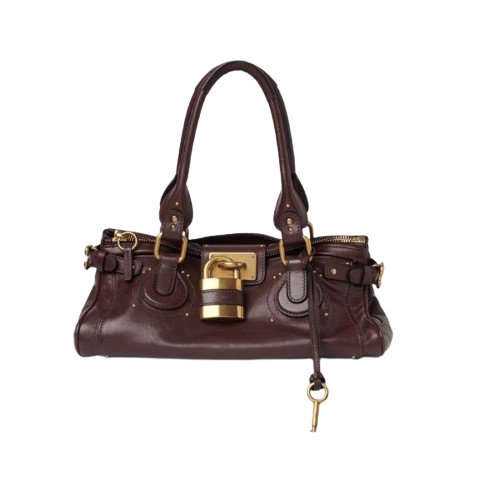
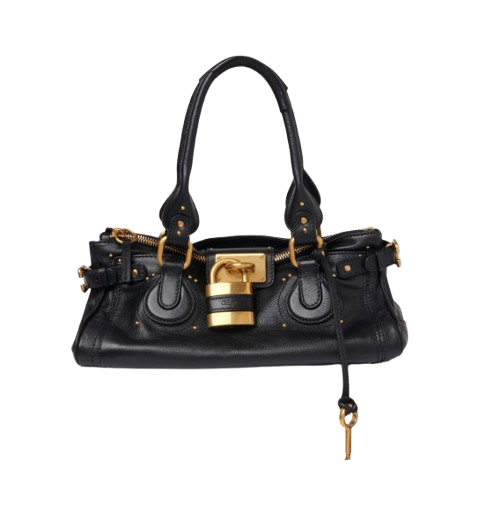
Add new wishlist items and update images

Changed region(s): [[0.1235, 0.0893, 0.8642, 0.8929]]

diff --git a/script.js b/script.js
@@ -19,7 +19,7 @@ const WISHLIST_ITEMS = [
     brand: "Chloé",
     name: "Paddington Shoulder Bag",
     image: "images/chloe_paddington_bag.png",
-    url: "https://www.chloe.com/en-us/p/bags/shoulder-bag/CH25WS802P75602.html",
+    url: "https://www.chloe.com/en-us/p/bags/shoulder-bag/CH25WS802P75001.html",
     category: "bags"
   },
   {
@@ -42,13 +42,6 @@ const WISHLIST_ITEMS = [
     image: "images/diptyque_candle.png",
     url: "https://www.diptyqueparis.com/en_us/p/home-fragrances/scented-candles/colored-scented-candles/roses-candle-600g.html",
     category: "home"
-  },
-  {
-    brand: "Ferragamo",
-    name: "Medium Leather Tote",
-    image: "images/ferragamo_bag.png",
-    url: "https://www.ferragamo.com/shop/us/en/women/handbags/totes-1/tote-m-777338",
-    category: "bags"
   },
   {
     brand: "Slip",
@@ -98,6 +91,69 @@ const WISHLIST_ITEMS = [
     image: "images/rene_caovilla_silver_heels.png",
     url: "https://us.renecaovilla.com/us/en/shoes/sandals/juniper-silver-468051817358015.html?keeplocale=true&Country=US&pid=468051817358015&utm_source=google&utm_medium=cpc&utm_campaign=US_Pmax&utm_id=21345453014&loopcd=COp|c|x|21345453014|468051817358015&gad_source=1&gad_campaignid=21349408318&gbraid=0AAAAACJVh3OX_UgvrRfYTC5R2oCuYnPea&gclid=Cj0KCQiAqeDMBhDcARIsAJEbU9TmQ8B9CBASMpx7i7QxqxKNTKG07hApi6w_Gt6iyue8IfeZPITwBzsaAgxwEALw_wcB",
     category: "shoes"
+  },
+  {
+    brand: "Isabel Marant",
+    name: "Bekett Sneakers",
+    image: "images/isabel_marant_sneakers.png",
+    url: "https://us.isabelmarant.com/products/bk0010faa1e19s01bk-bekett-sneakers-black?variant=48045244154175",
+    category: "shoes"
+  },
+  {
+    brand: "Louis Vuitton",
+    name: "Passport Cover",
+    image: "images/louis_vuitton_passport_cover.png",
+    url: "https://us.louisvuitton.com/eng-us/products/passport-cover-monogram-shadow-leather-nvprod5790139v/M13187",
+    category: "accessories"
+  },
+  {
+    brand: "Bulgari",
+    name: "Serpenti Tubogas Watch",
+    image: "images/bulgari_watch.png",
+    url: "https://www.bulgari.com/en-us/SP35C6SDS-2T-WG.html?pid=101910",
+    category: "accessories"
+  },
+  {
+    brand: "Loewe",
+    name: "Medium Featherlight Puzzle Bag",
+    image: "images/loewe_puzzle_bag.png",
+    url: "https://www.loewe.com/usa/en/women/bags/puzzle/medium-featherlight-puzzle-bag-in-nappa-lambskin/A510PLMX02-0018.html",
+    category: "bags"
+  },
+  {
+    brand: "Hermès",
+    name: "Birkin 30",
+    image: "images/black_birkin.png",
+    url: "https://www.therealreal.com/products/women/handbags/handle-bags/hermes-epsom-leather-birkin-30-ult22?utm_source=googleperformancemax&utm_medium=paidshopping&utm_campaign=Google%5FShopping%5FDemand%5FNew%5FWomens%5FHandbags%5FHerm%C3%A8s&utm_adgroup=&utm_content=&gad_source=1&gad_campaignid=22491516156&gbraid=0AAAAADh84nNQqVUEZP7V8EtRn_wX1C6f7&gclid=CjwKCAjwuuPRBhAnEiwA2Ji8evXQSbYnC_CNm3wOC9U7nwy89fxUBi7xxzQqasIqozcv831EqHTdBxoCORcQAvD_BwE",
+    category: "bags"
+  },
+  {
+    brand: "Jellycat",
+    name: "Amusables Clementine",
+    image: "images/jellycat_clementine.png",
+    url: "https://us.jellycat.com/amuseables-clementine/?_gl=1*aky461*_up*MQ..*_gs*MQ..&gclid=CjwKCAjwuuPRBhAnEiwA2Ji8eukLERphrnNJy-HAbyJ1zNunKu8zLgH02dqZSkxduBXYzdzU4pnKlBoCmmwQAvD_BwE&gbraid=0AAAAADtxRQC-SGI9piKG5Tr1p9xjocMDy",
+    category: "home"
+  },
+  {
+    brand: "Jo Malone",
+    name: "English Pear & Freesia Body & Hand Lotion",
+    image: "images/jo_malone_lotion.png",
+    url: "https://www.jomalone.com/product/25956/27928/bath-body/english-pear-freesia-body-hand-lotion?size=250ml",
+    category: "beauty"
+  },
+  {
+    brand: "Dior",
+    name: "Dior Addict Lip Glow, Shade 077 Candy",
+    image: "images/dior_lip_glow.png",
+    url: "https://www.dior.com/en_us/beauty/products/dior-addict-lip-glow-Y0457000.html",
+    category: "beauty"
+  },
+  {
+    brand: "Rimowa",
+    name: "Original Cabin",
+    image: "images/rimowa_suitcase.png",
+    url: "https://www.rimowa.com/us/en/luggage/colour/silver/cabin/92553004.html",
+    category: "bags"
   }
 ];
 